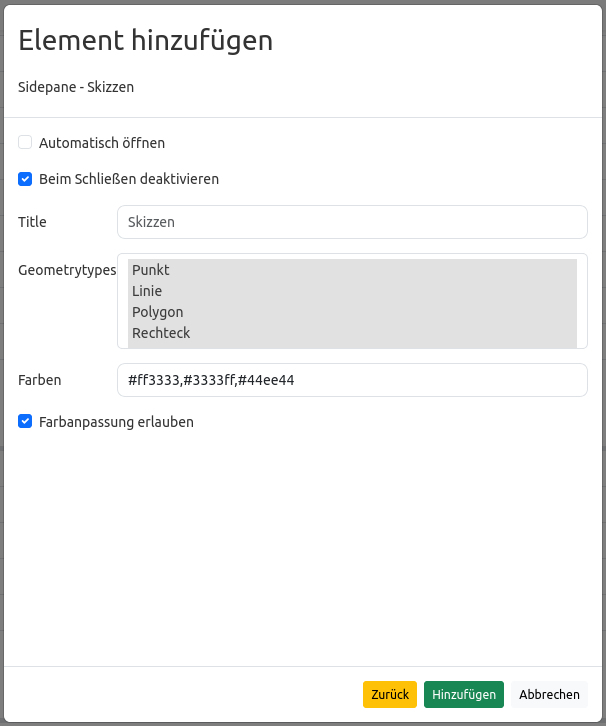
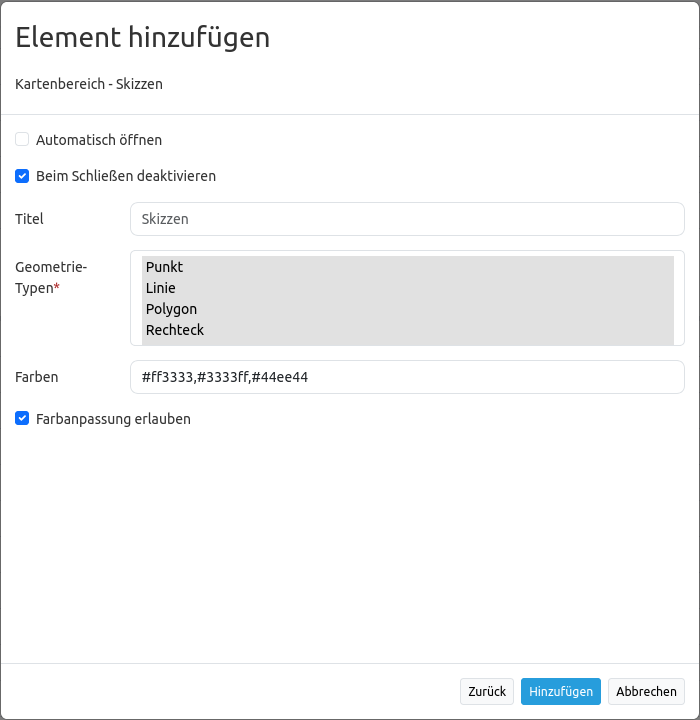
New Screenshots for Sketch Element and set Scale to 70

Changed region(s): [[0.0, 0.0, 1.0, 1.0]]

diff --git a/de/elements/editing/sketch.rst b/de/elements/editing/sketch.rst
@@ -20,7 +20,7 @@ Konfiguration
 ================
 
 .. image:: ../../../figures/de/sketch_configuration.png
-     :scale: 80
+     :scale: 70
 
 * **Automatisch öffnen:** Das Element wird beim Anwendungsstart automatisch geöffnet (Standard: deaktiviert).
 * **Beim Schließen deaktivieren:** Erstellte Skizzen werden nach Schließen des Elements (Button oder Sidepane) nicht mehr in der Karte angezeigt. Erneutes Öffnen zeigt erstellte Skizzen wieder an.

diff --git a/en/elements/editing/sketch.rst b/en/elements/editing/sketch.rst
@@ -20,7 +20,7 @@ Configuration
 =============
 
 .. image:: ../../../figures/sketch_configuration.png
-     :scale: 80
+     :scale: 70
 
 * **Open automatically:** Opens the Sketch element on application start (default: off).
 * **Deactivate on close:** Sketches are deactivated after closure of the element.
